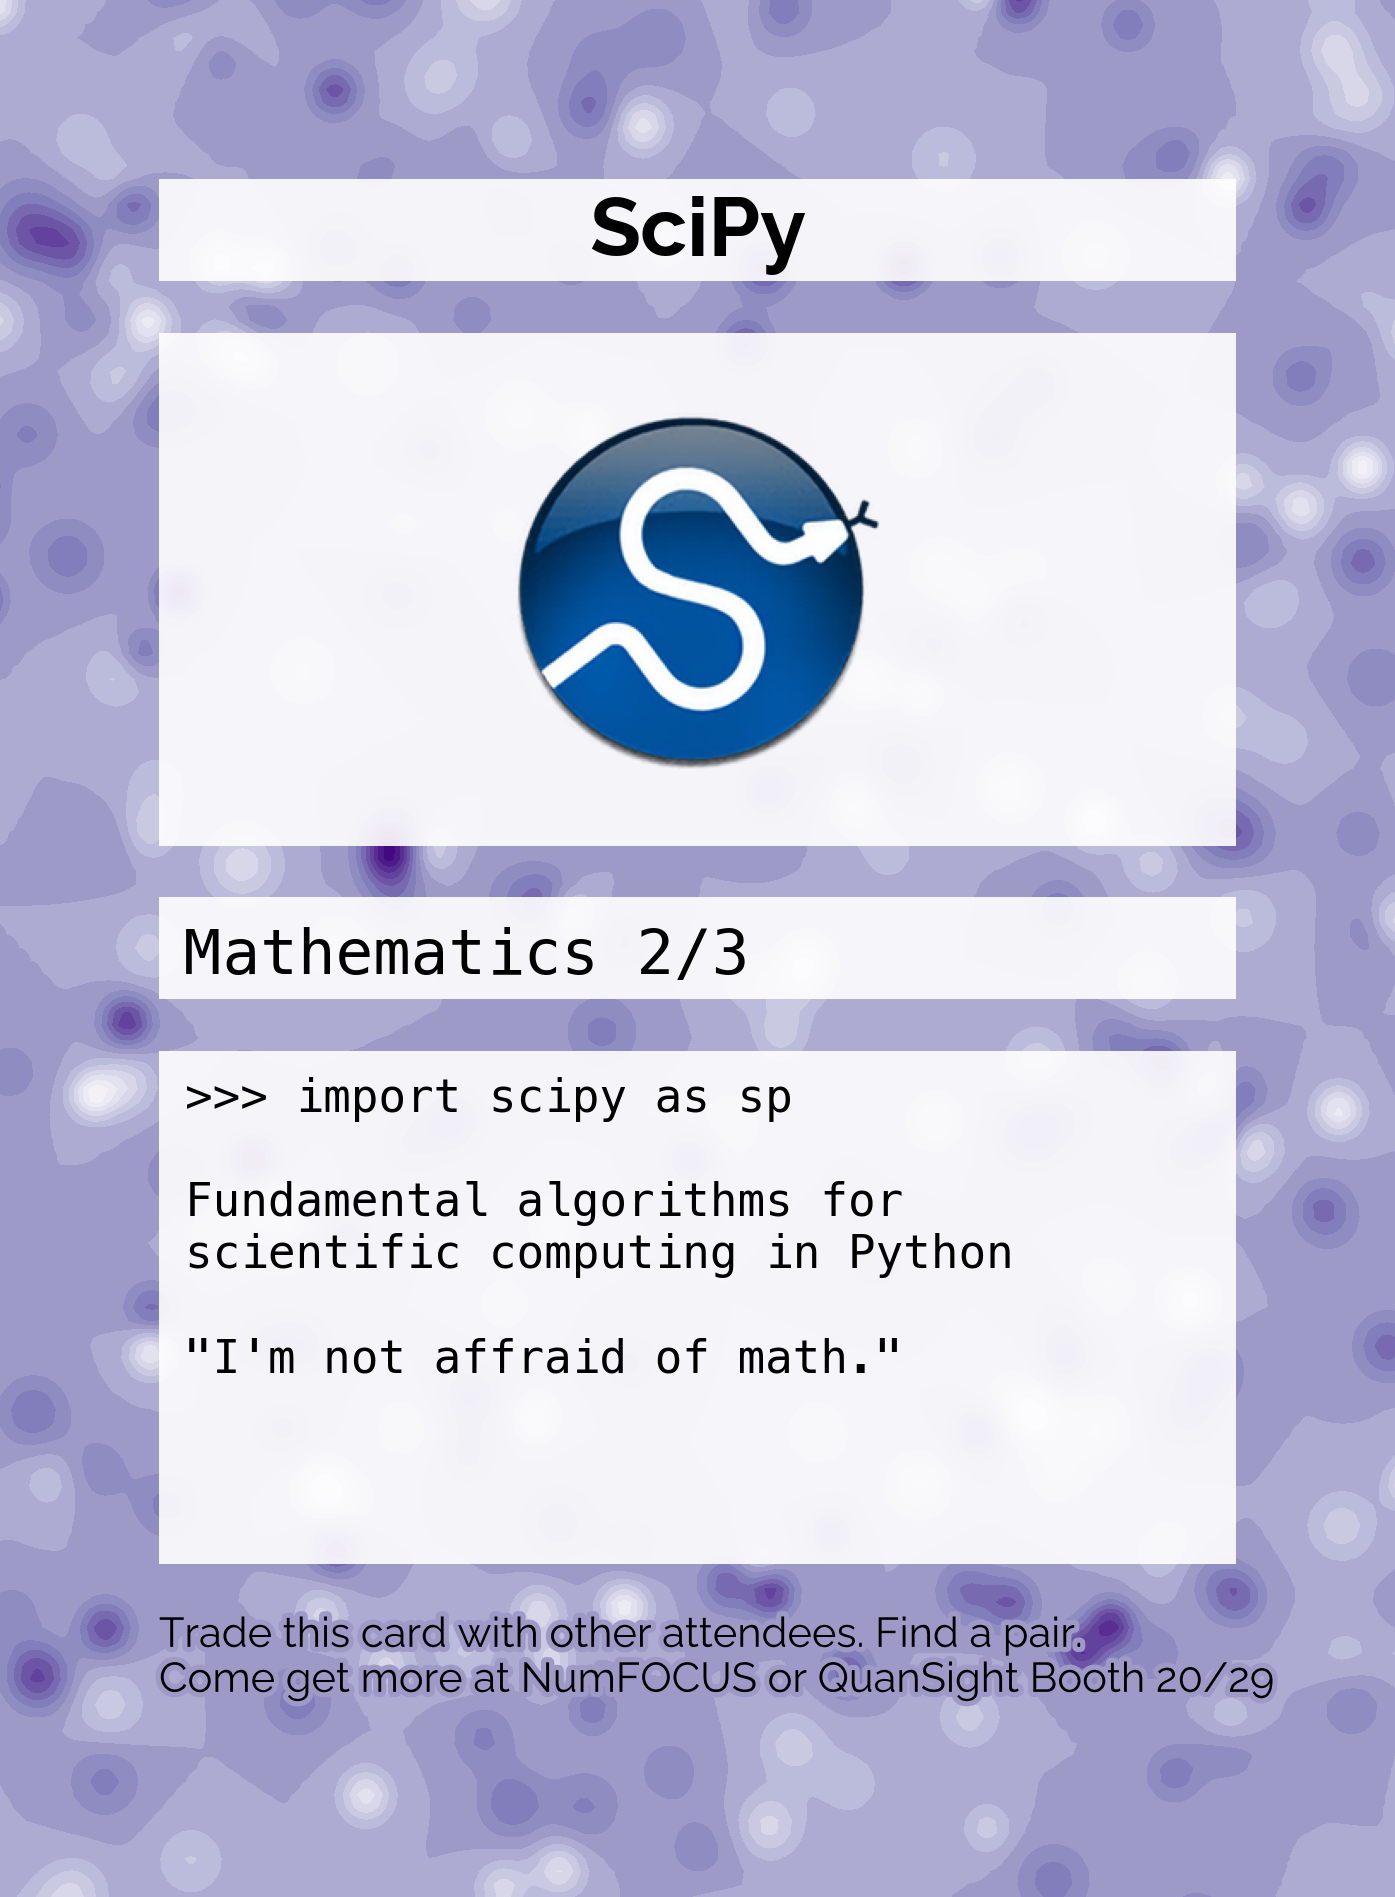
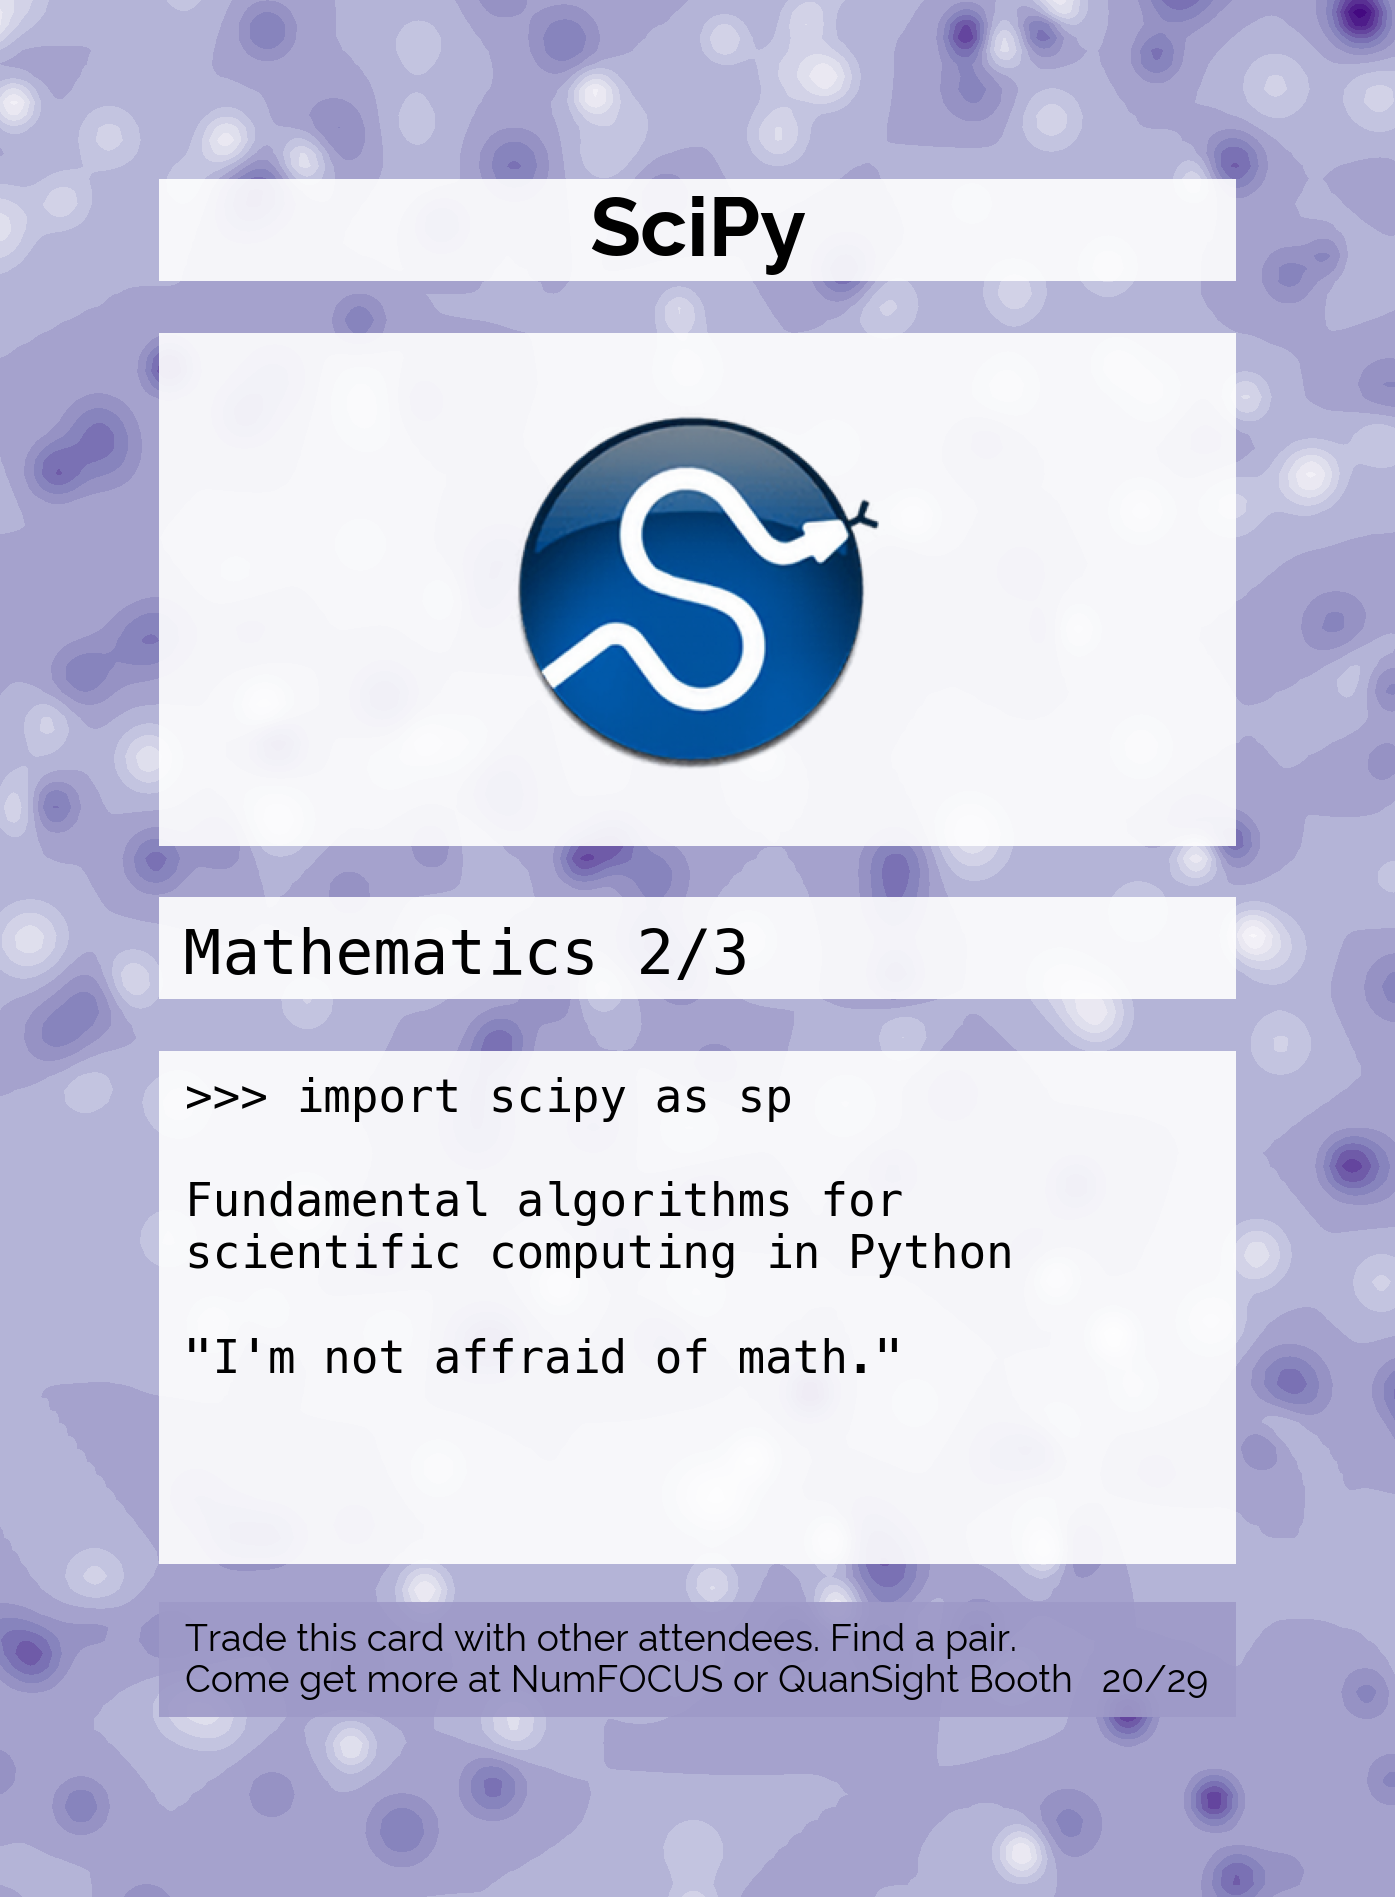
regen color down

diff --git a/gen.py b/gen.py
@@ -176,6 +176,10 @@ def plot_one(ax, cmap, name, short, desc, meth, group=None, gn="0/0", tn="0/0"):
     cc = get_cmap(cmap)(0.5)
     p = PatchCollection(patches, alpha=0.90, ec=cc, fc="white", lw=0)
     ax.add_collection(p)
+
+    crect = Polygon(rect(-2.55, 2.1, -3.00))  # whiteish bg
+    p2 = PatchCollection([crect], alpha=0.90, ec=cc, fc=get_cmap(cmap)(0.5), lw=0)
+    ax.add_collection(p2)
     footer = "Trade this card with other attendees. Find a pair.\nCome get more at NumFOCUS or QuanSight Booth"
 
     ax.text(
@@ -222,14 +226,13 @@ def plot_one(ax, cmap, name, short, desc, meth, group=None, gn="0/0", tn="0/0"):
     fcolor = "white" if cmap in {"gray", "twilight", "gist_heat"} else "black"
 
     txt = ax.text(
-        -2.1, -2.9, footer + " " + tn, fontsize=20, fontfamily="Raleway", color=fcolor
+        -2.0, -2.9, footer + "   " + tn, fontsize=18, fontfamily="Raleway", color=fcolor
     )
 
-
-    for t in [txt]:
-        t.set_path_effects(
-            [PathEffects.withStroke(linewidth=5, foreground=get_cmap(cmap)(0.5))]
-        )
+    # for t in [txt]:
+    #    t.set_path_effects(
+    #        [PathEffects.withStroke(linewidth=5, foreground=get_cmap(cmap)(0.5))]
+    #    )
 
 
 
